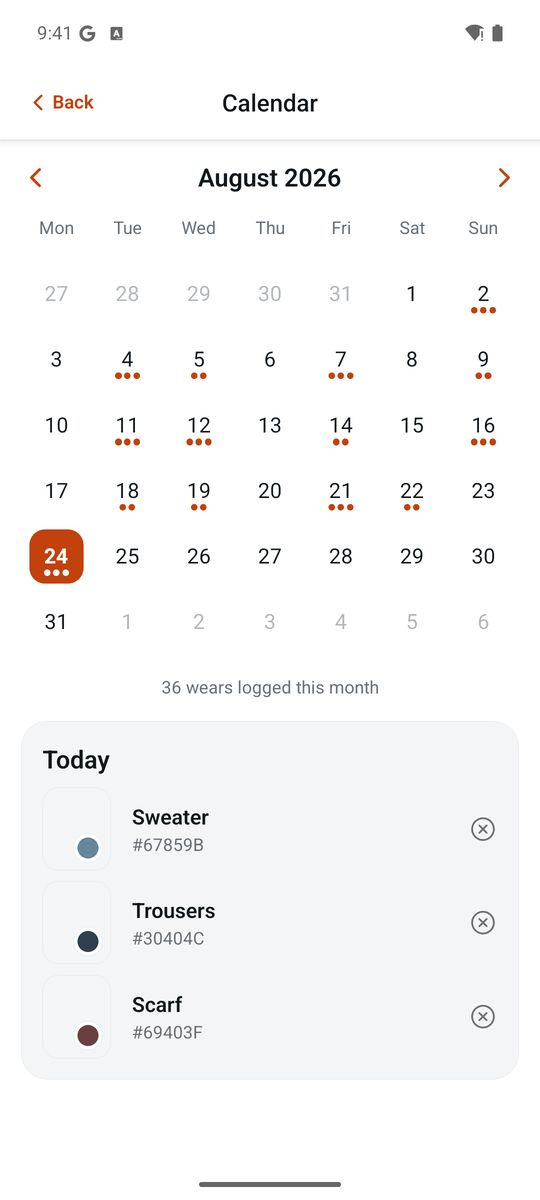
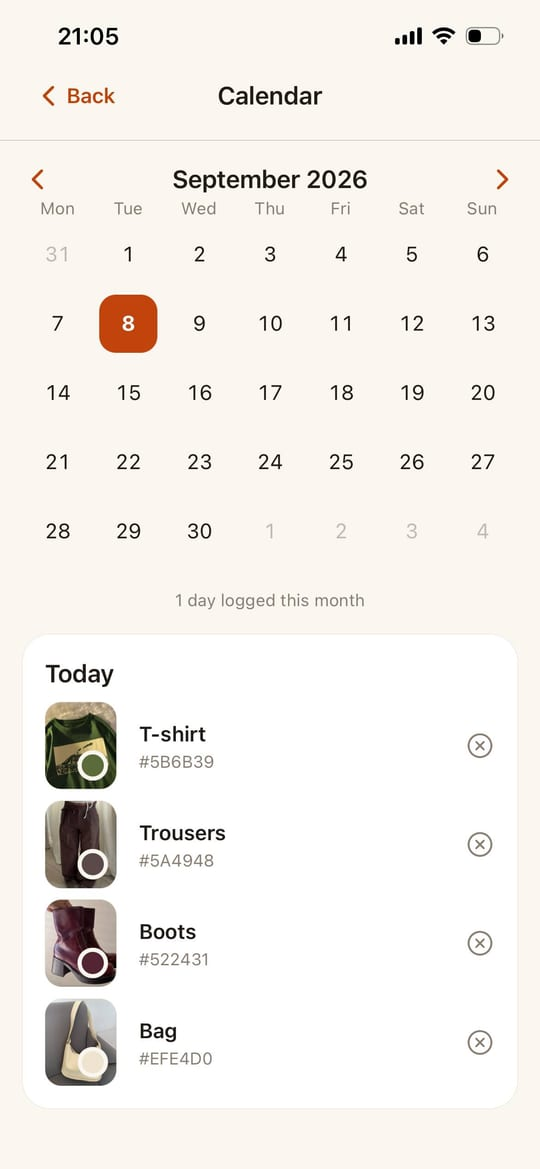
feat: справжні знімки з iPhone у героя, календар, кольоротип і примірочну
П'ять екранів з емулятора замінені на зняті з iPhone: сітка гардероба
стала в героя (замість картки пар), календар і кольоротип — у свої
розділи, а примірочна отримала обидва свої знімки — і той, де колір
зчитати не вдалося, і вердикт.

Вхідні файли — 1170×2532 і до 208 КБ. Зведені до 540 завширшки, як решта
набору: так кожен знову важить 24–50 КБ, а знімок героя не тягне 208 КБ
на першому екрані. Пропорція в них інша за емуляторну, тому width і
height у цих <img> тепер 540×1169, інакше сторінка стрибала б, коли
знімок доїде.

Картка пар лишилась у маніфесті, тож її опис переїхав з hero.alt у
власний manifesto.alt — інакше він описував би сітку гардероба. Решта
alt-ів переписана під те, що на новому знімку справді видно, всіма
чотирма мовами.

Claude-Session: https://claude.ai/code/session_016kKVbdSPCpaiz2Lqidpqv7

diff --git a/src/index.html b/src/index.html
@@ -70,11 +70,11 @@
         </div>
 
         <picture>
-          <source srcset="{{@base}}assets/shots/pairs.webp" type="image/webp" />
+          <source srcset="{{@base}}assets/shots/grid.webp" type="image/webp" />
           <img
             class="shot shot--lift hero__shot"
-            src="{{@base}}assets/shots/pairs.jpg"
-            width="540" height="1200"
+            src="{{@base}}assets/shots/grid.jpg"
+            width="540" height="1169"
             loading="eager" fetchpriority="high" decoding="async"
             alt="{{hero.alt}}" />
         </picture>
@@ -247,7 +247,7 @@
           <img
             class="shot shot--lift calendar__shot"
             src="{{@base}}assets/shots/calendar.jpg"
-            width="540" height="1200"
+            width="540" height="1169"
             loading="lazy" decoding="async"
             alt="{{calendar.alt}}" />
         </picture>
@@ -299,7 +299,7 @@
           <img
             class="shot shot--lift colortype__shot"
             src="{{@base}}assets/shots/colortype.jpg"
-            width="540" height="1200"
+            width="540" height="1169"
             loading="lazy" decoding="async"
             alt="{{colortype.alt}}" />
         </picture>
@@ -323,7 +323,7 @@
             <img
               class="shot"
               src="{{@base}}assets/shots/fitcolor.jpg"
-              width="540" height="1200"
+              width="540" height="1169"
               loading="lazy" decoding="async"
               alt="{{fitcolor.alt}}" />
           </picture>
@@ -332,7 +332,7 @@
             <img
               class="shot"
               src="{{@base}}assets/shots/verdict.jpg"
-              width="540" height="1200"
+              width="540" height="1169"
               loading="lazy" decoding="async"
               alt="{{verdict.alt}}" />
           </picture>
@@ -402,7 +402,7 @@
               src="{{@base}}assets/shots/pairs.jpg"
               width="540" height="1200"
               loading="lazy" decoding="async"
-              alt="{{hero.alt}}" />
+              alt="{{manifesto.alt}}" />
           </picture>
         </div>
 

diff --git a/README.md b/README.md
@@ -169,17 +169,36 @@ sets nothing, and is described in **Analytics** above.
   German pages do not shift by a pixel. Plex is already on the page, so the
   type system stays one family. Its OFL is the same licence file as Sans and
   Mono.
-- `assets/shots` — the ten phone captures from the design canvas, real screens
-  of the app on an Android emulator with a seeded 16-item wardrobe. `.webp`
-  next to `.jpg`, same base name.
+- `assets/shots` — the phone captures, `.webp` next to `.jpg`, same base
+  name. They are being replaced one by one with real iPhone screenshots; the
+  originals were the design canvas's Android emulator screens of a seeded
+  16-item wardrobe.
 
-  **Two of them are placeholders.** Sections 07 (why no AI) and 08 (what it
+  | file | screen | source |
+  | --- | --- | --- |
+  | `grid` | wardrobe grid — hero | **iPhone** |
+  | `calendar` | month + that day's pieces | **iPhone** |
+  | `colortype` | Cool Summer result | **iPhone** |
+  | `verdict` | fitting-room verdict | **iPhone** |
+  | `fitcolor` | fitting-room colour prompt | **iPhone** |
+  | `outfits` | generated outfits | Android |
+  | `builder` | outfit builder | Android |
+  | `item` | item card | Android |
+  | `shoot` | how to shoot | Android |
+  | `wardrobe` | wardrobe grid | Android |
+  | `pairs` | item card with pair reasons | Android |
+
+  New captures come in at 1170×2532; they are resized to 540 wide to match
+  the set, which puts each one back in the 24–50 KB range the others sit in.
+  The iPhone screens are 540×1169 rather than 540×1200, so the `width` and
+  `height` attributes on those `<img>` tags differ — they only reserve
+  layout space, but a wrong pair means the page jumps when the image lands.
+
+  **Two shots are placeholders.** Sections 07 (why no AI) and 08 (what it
   doesn't do) were walls of text with no screenshot at all, so they now carry
   one and two respectively — but no unused capture fitted either subject, so
-  `pairs` is reused in 07 and `wardrobe` in 08. Both are stand-ins for
-  captures that do not exist yet; replace them and update the `alt` string
-  that goes with each. `shoot` was genuinely unused until now and is the
-  first of the two in section 08.
+  `pairs` is reused in 07 and `wardrobe` in 08. Replace them and update the
+  `alt` string that goes with each.
 - `ecru-logo.svg` and `apple-touch-icon.png` — the favicon, at the root rather
   than in `assets` because that is where a browser and iOS look for it. Three
   `<link>` tags, one reason each: the SVG for current browsers, the PNG for
